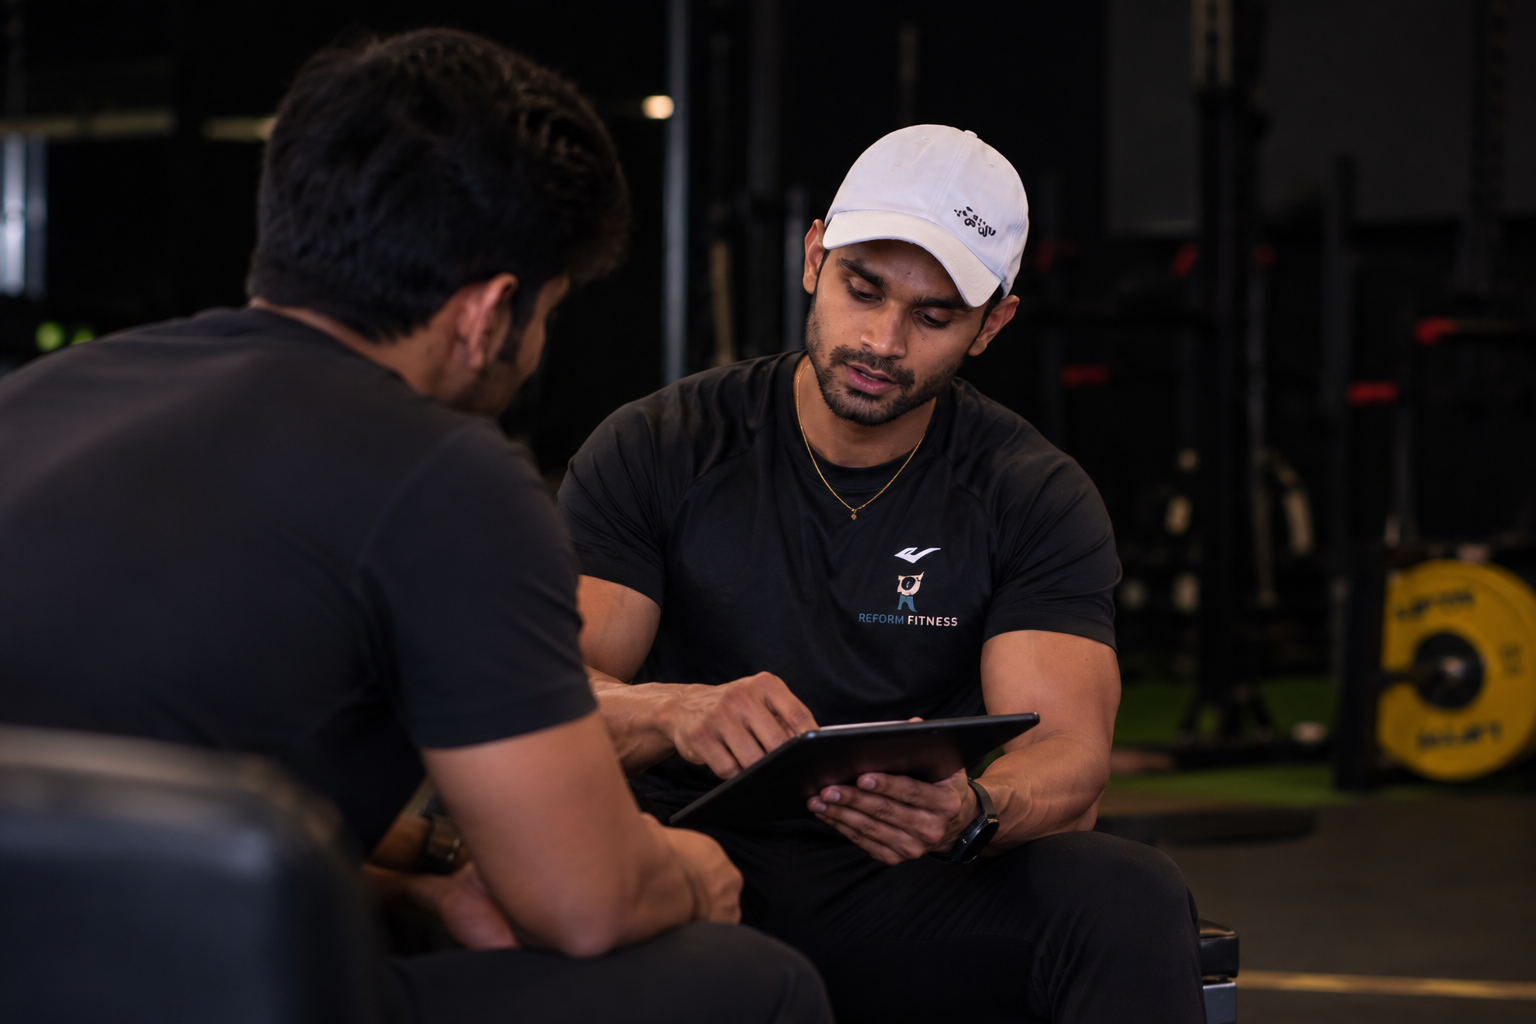
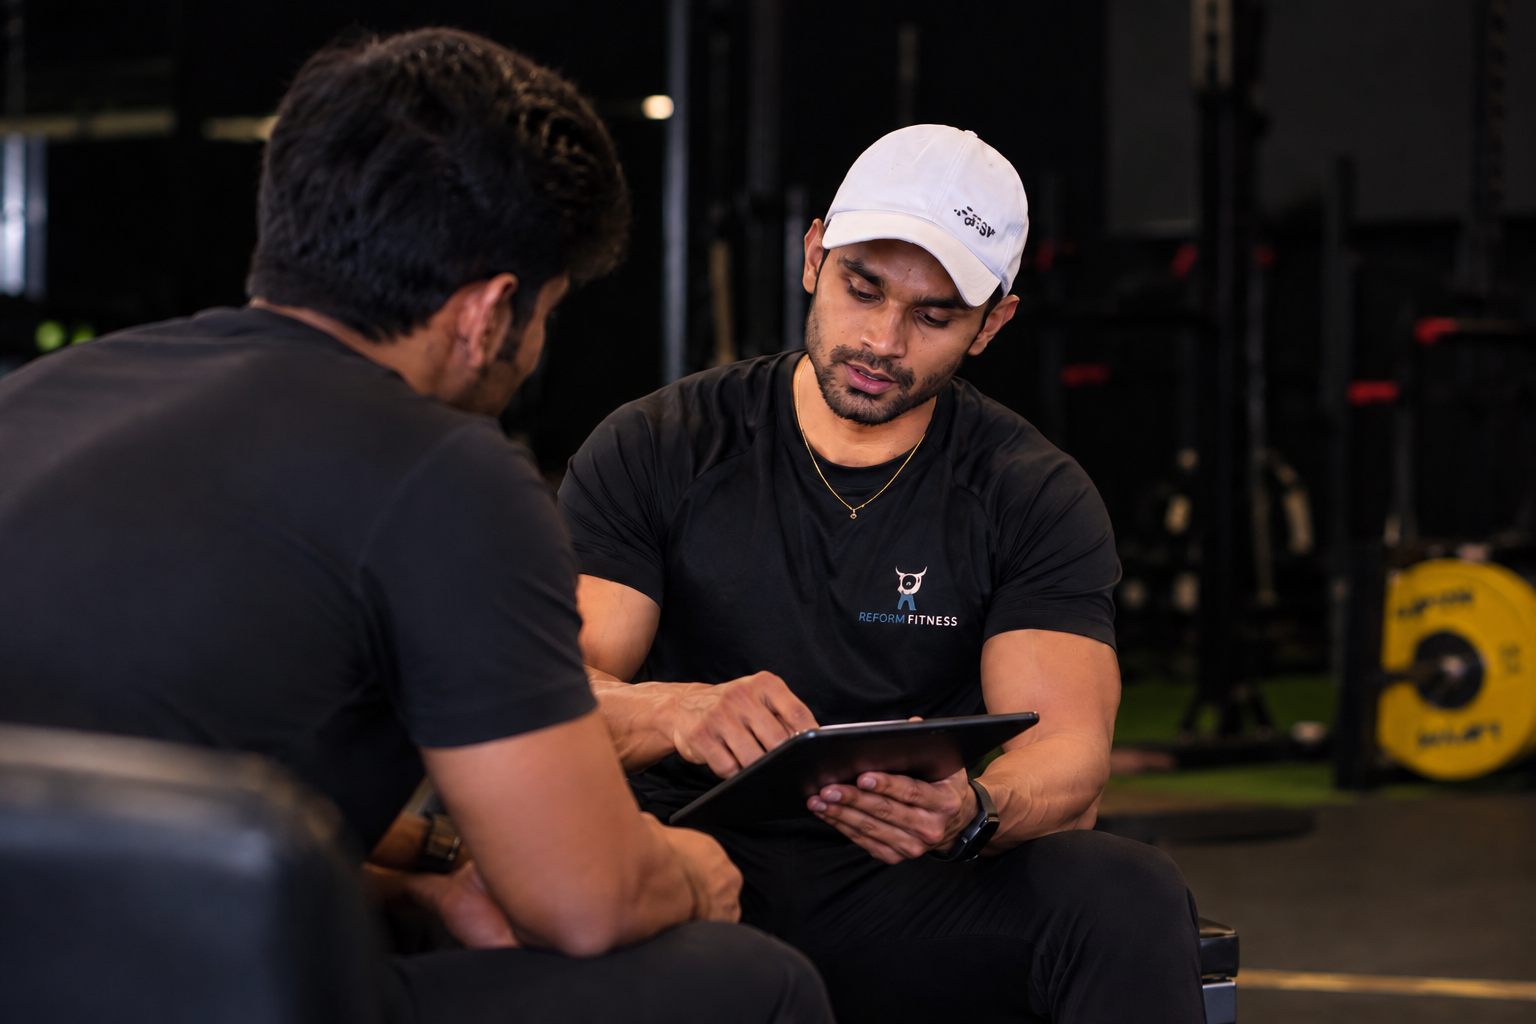
images changed

diff --git a/src/components/sections/about/AboutFounders.jsx b/src/components/sections/about/AboutFounders.jsx
@@ -68,7 +68,7 @@ export default function AboutFounders() {
           {/* Image - LEFT SIDE (Slightly lowered and slightly taller) */}
           <div className="w-full flex flex-col lg:col-span-5 xl:col-span-5 mt-0 lg:mt-2">
             <div className="relative group w-full mb-8 lg:mb-0 max-w-md mx-auto lg:max-w-none">
-              <div className="founder-image relative overflow-hidden aspect-[2/3] rounded-2xl w-full shadow-2xl">
+              <div className="founder-image relative overflow-hidden aspect-[2/3.05] rounded-2xl w-full shadow-2xl">
                 <img 
                   src="/founder/founder.jpeg" 
                   alt="Founder of Reform Fitness" 
@@ -80,6 +80,13 @@ export default function AboutFounders() {
 
           {/* Founder Info - RIGHT SIDE */}
           <div className="founder-text flex flex-col justify-start lg:col-span-7 xl:col-span-7 lg:pt-4">
+            <p className="font-serif text-3xl sm:text-4xl lg:text-5xl font-bold text-[#231F20] mb-2">
+              Jahir Hussain
+            </p>
+            <p className="text-xs sm:text-sm uppercase tracking-[0.2em] text-[#2B6F6F] font-semibold mb-8">
+              Founder
+            </p>
+            
             <p className="text-base md:text-lg text-[#231F20]/90 leading-relaxed font-light mb-6">
               Reform Fitness was born from a personal experience that <span className="text-[#2B6F6F] font-medium">changed the way I understood fitness.</span>
             </p>

diff --git a/src/pages/TrainersPage.jsx b/src/pages/TrainersPage.jsx
@@ -16,7 +16,7 @@ const trainers = [
       "Akash is a competitive athlete and strength coach with 3+ years of experience in the UAE. His sporting background spans Weightlifting, Powerlifting, Wrestling, Bodybuilding, Baseball, Softball, and CrossFit.",
       "A Mahatma Gandhi University Weightlifting Gold Medalist, he specializes in strength training, muscle building, fat loss, and athletic performance—helping clients build confidence and a sustainable lifestyle."
     ],
-    image: '/trainers/akash.webp',
+    image: '/trainers/akash.png',
   },
   {
     id: 2,
@@ -30,7 +30,7 @@ const trainers = [
       "With 4 years of experience in fitness training, Nishin Prakash is a Dubai-based Fitness Coach specializing in Strength & Conditioning, Body Recomposition, Fat Loss, Mobility, and Stretching.",
       "Every training program is designed around the client’s goals, fitness level, lifestyle, and individual needs, ensuring that training is both effective and sustainable."
     ],
-    image: '/trainers/nishin.webp',
+    image: '/trainers/nishin.png',
   },
   {
     id: 3,

diff --git a/src/pages/ServicesPage.jsx b/src/pages/ServicesPage.jsx
@@ -75,7 +75,7 @@ const allServices = [
     includes: ['Medical history review', 'Doctor coordination', 'Progressive recovery protocol', 'Pain point assessment', 'Return-to-function milestones', 'Long-term injury prevention'],
     color: '#E8B884',
     ideal: 'Post-surgery, chronic pain, and sports injury recovery',
-    img: '/services_images/injuryrehabilation.jpeg'
+    img: '/services_images/injuryrehabilation.png'
   },
   {
     icon: Flower2,

diff --git a/src/components/sections/HomeServicesSection.jsx b/src/components/sections/HomeServicesSection.jsx
@@ -41,7 +41,7 @@ const serviceGroups = [
       num: '05',
       title: 'Rehabilitation (Post Injury)',
       subtitle: 'From Recovery to Full Functional Strength',
-      img: '/services_images/injuryrehabilation.jpeg',
+      img: '/services_images/injuryrehabilation.png',
     },
     {
       num: '06',
